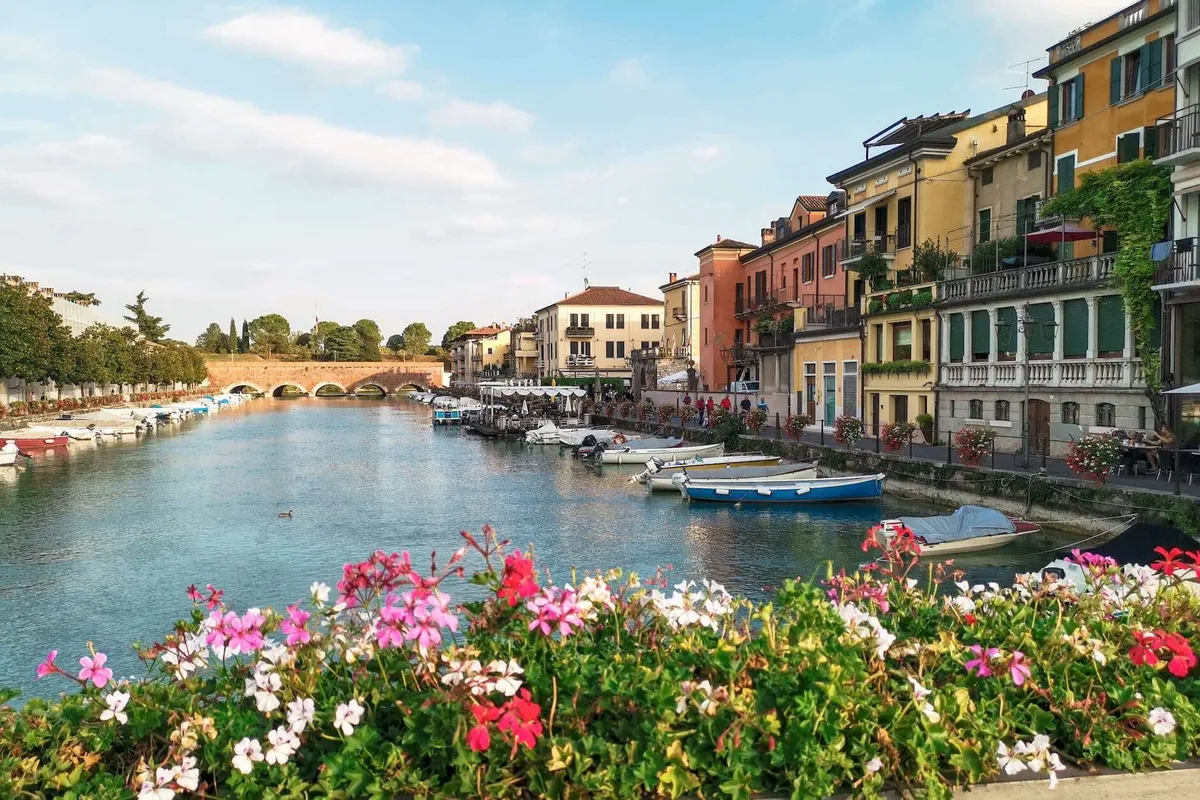
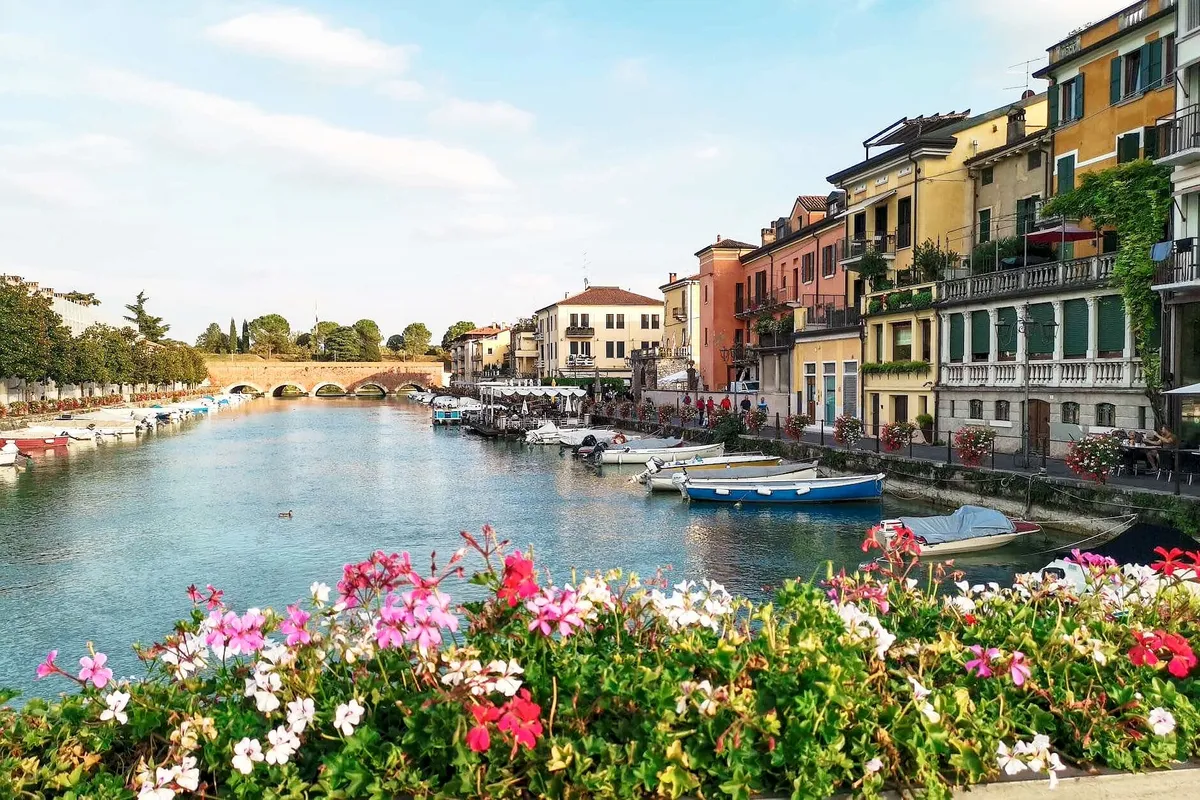
Foto aggiornata dal pannello: Peschiera del Garda

diff --git a/index.html b/index.html
@@ -1975,7 +1975,7 @@
             <p data-testo="territorio-15">La città di Romeo e Giulietta, Patrimonio UNESCO, tra l'Arena, piazze eleganti e un centro storico ricco di fascino.</p>
           </article>
           <article class="visit__card" data-card>
-            <div class="img-slot"><img width="1200" height="800" src="img/territorio-peschiera.webp?v=1786603178603" srcset="img/territorio-peschiera-800.webp?v=1786603178603 800w, img/territorio-peschiera.webp?v=1786603178603 1200w" sizes="(max-width: 768px) 92vw, (max-width: 980px) 46vw, 388px" alt="I canali fioriti e le mura fortificate di Peschiera del Garda" data-img-parallax loading="lazy" decoding="async" /></div>
+            <div class="img-slot"><img width="1200" height="800" src="img/territorio-peschiera.webp?v=1786608186240" srcset="img/territorio-peschiera-800.webp?v=1786608186240 800w, img/territorio-peschiera.webp?v=1786608186240 1200w" sizes="(max-width: 768px) 92vw, (max-width: 980px) 46vw, 388px" alt="I canali fioriti e le mura fortificate di Peschiera del Garda" data-img-parallax loading="lazy" decoding="async" /></div>
             <span class="visit__tag" data-testo="territorio-16">25 min</span>
             <h3 data-testo="territorio-17">Peschiera del Garda</h3>
             <p data-testo="territorio-18">Raggiungibile anche in bicicletta da Beatilla. Città fortificata Patrimonio UNESCO, dove canali, bastioni veneziani e il Lago di Garda si incontrano.</p>

diff --git a/en/index.html b/en/index.html
@@ -1976,7 +1976,7 @@
             <p data-testo="territorio-15">The city of Romeo and Juliet, a UNESCO site, with the Arena, elegant squares and a charming historic centre.</p>
           </article>
           <article class="visit__card" data-card>
-            <div class="img-slot"><img width="1200" height="800" src="../img/territorio-peschiera.webp?v=1786603178603" srcset="../img/territorio-peschiera-800.webp?v=1786603178603 800w, ../img/territorio-peschiera.webp?v=1786603178603 1200w" sizes="(max-width: 768px) 92vw, (max-width: 980px) 46vw, 388px" alt="The flower-lined canals and fortified walls of Peschiera del Garda" data-img-parallax loading="lazy" decoding="async" /></div>
+            <div class="img-slot"><img width="1200" height="800" src="../img/territorio-peschiera.webp?v=1786608186240" srcset="../img/territorio-peschiera-800.webp?v=1786608186240 800w, ../img/territorio-peschiera.webp?v=1786608186240 1200w" sizes="(max-width: 768px) 92vw, (max-width: 980px) 46vw, 388px" alt="The flower-lined canals and fortified walls of Peschiera del Garda" data-img-parallax loading="lazy" decoding="async" /></div>
             <span class="visit__tag" data-testo="territorio-16">25 min</span>
             <h3 data-testo="territorio-17">Peschiera del Garda</h3>
             <p data-testo="territorio-18">Also reachable by bike from Beatilla. A UNESCO-listed fortified town where canals, Venetian ramparts and Lake Garda meet.</p>
